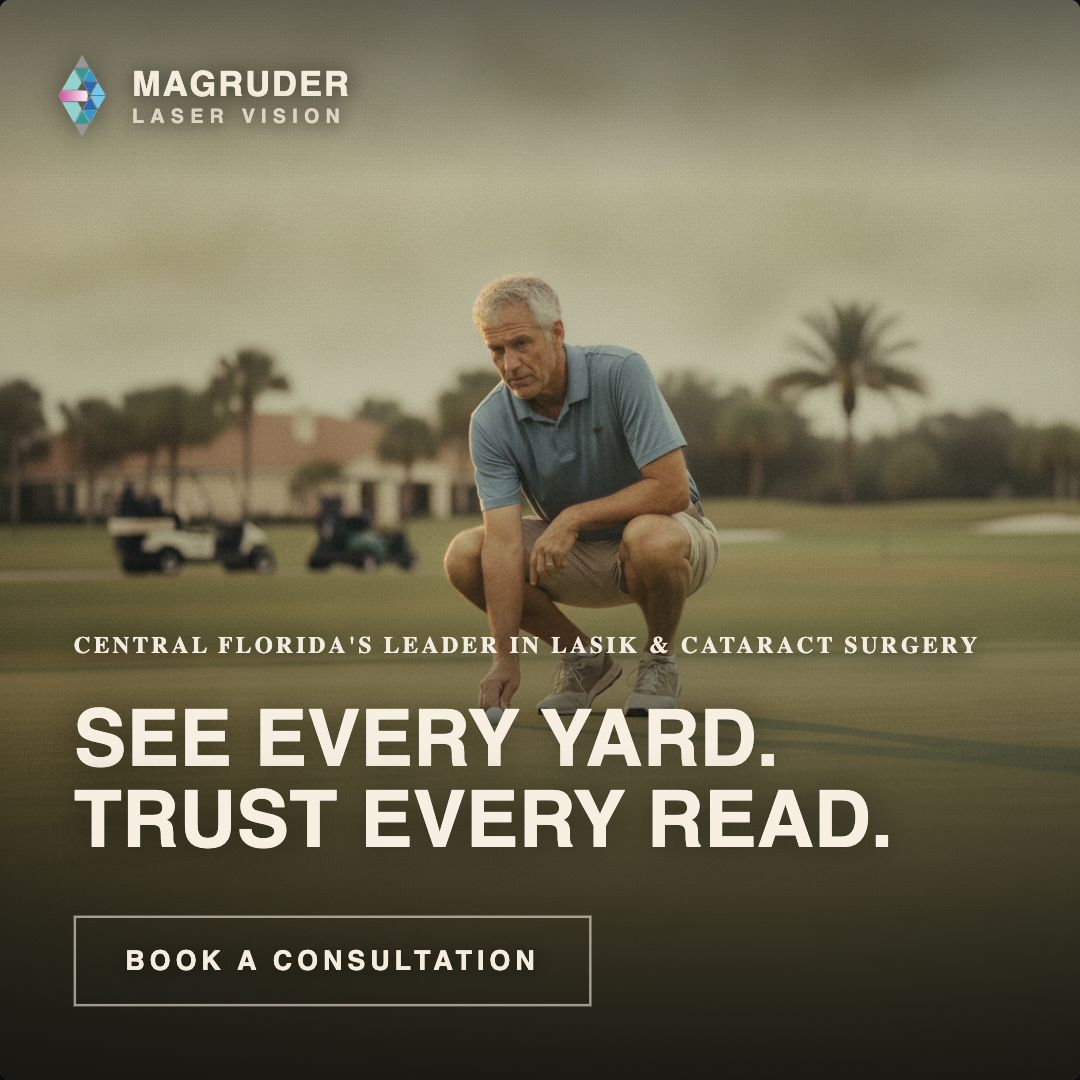
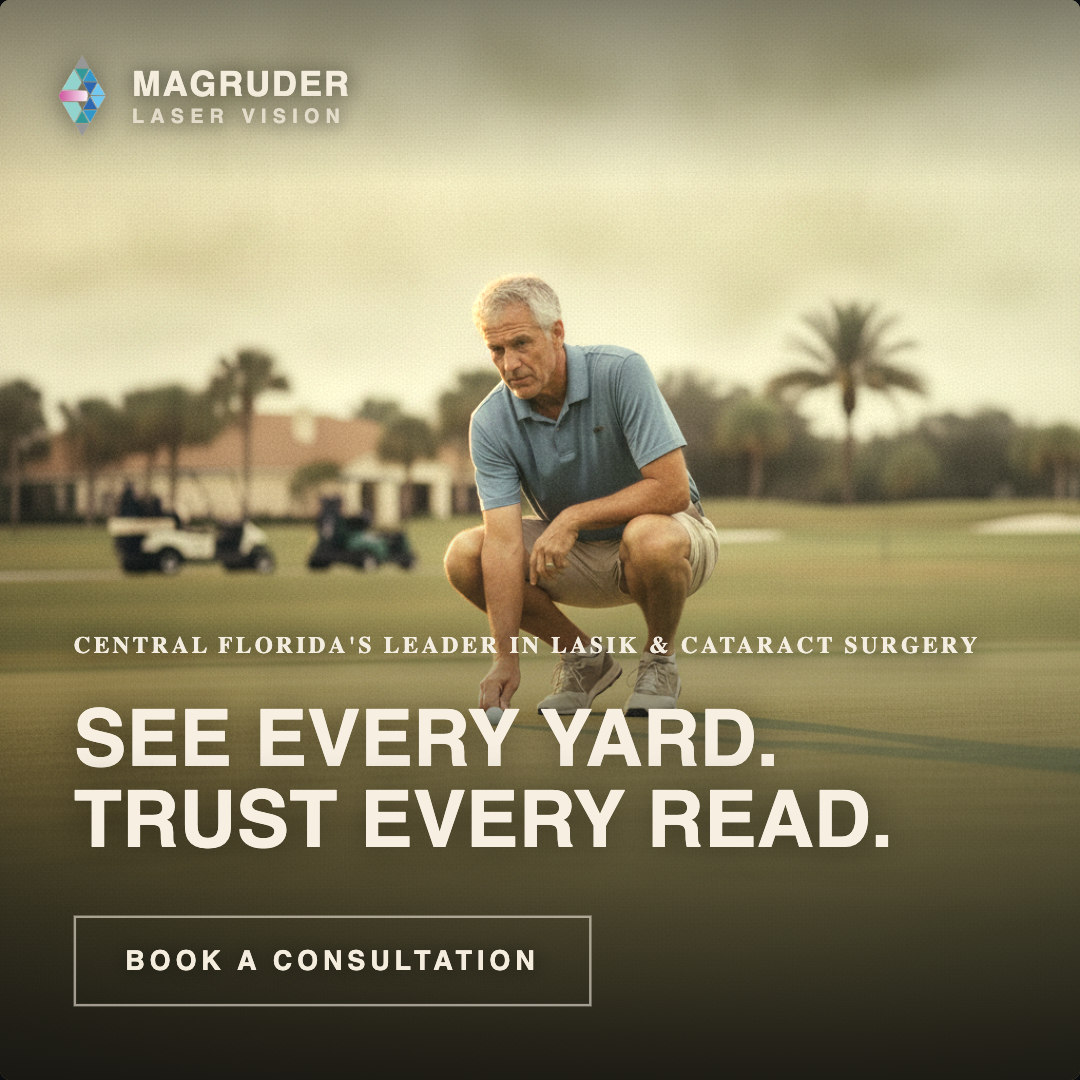
Brighten golf, fishing, and pickleball ads (brightness 1.3, contrast 1.05)

diff --git a/index.html b/index.html
@@ -1,5 +1,5 @@
 <!DOCTYPE html><html lang="en"><head><meta charset="utf-8"><meta name="viewport" content="width=device-width, initial-scale=1"><title>Magruder Laser Vision — Creative Territories · Campbell Learn</title><link rel="preconnect" href="https://fonts.googleapis.com"><link rel="preconnect" href="https://fonts.gstatic.com" crossorigin><link href="https://fonts.googleapis.com/css2?family=Oswald:wght@400;500;600;700&family=Roboto:ital,wght@0,400;0,500;0,700;1,400&family=Cardo:ital@0;1&family=Roboto+Mono:wght@400;500&family=Archivo:wght@500;600;700;800&family=Newsreader:ital,opsz,wght@0,6..72,300;0,6..72,400;0,6..72,500;1,6..72,300;1,6..72,400&family=Inter:wght@400;500;600&display=swap" rel="stylesheet"><style>*{box-sizing:border-box}body{margin:0;background:#fff;-webkit-font-smoothing:antialiased}a[download]:hover{background:#013042 !important}</style></head><body><section style="background:#FFFFFF;min-height:90vh;display:flex;align-items:center;border-bottom:1px solid #DED8CC;"><div style="max-width:1240px;margin:0 auto;padding:80px 24px;width:100%;"><div style="display:flex;align-items:center;gap:11px;margin-bottom:56px;"><span style="width:13px;height:13px;border-radius:50%;background:#EA3C55;"></span><span style="font-family:Oswald,sans-serif;font-weight:600;font-size:16px;letter-spacing:.18em;text-transform:uppercase;color:#024059;">Campbell Learn</span></div><div style="display:flex;align-items:center;gap:10px;margin-bottom:18px;"><span style="width:9px;height:9px;border-radius:50%;background:#EA3C55;display:inline-block;"></span><span style="font-family:Oswald,sans-serif;font-weight:600;font-size:13px;letter-spacing:.22em;text-transform:uppercase;color:#024059;">Magruder Laser Vision · Creative Territories</span></div><h1 style="font-family:Oswald,sans-serif;font-weight:600;font-size:68px;line-height:.98;color:#024059;margin:0 0 8px;max-width:900px;">One Promise.<br><span style="font-family:Cardo,Georgia,serif;font-style:italic;font-weight:400;color:#00AEEF;">Three ways to prove it.</span></h1><p style="font-family:Roboto,system-ui,sans-serif;font-size:17px;line-height:1.62;color:#03030D;max-width:680px;margin:28px 0 32px;">Every territory ladders up to the same positioning. Each one dramatizes that promise for a different mindset — the dreamer, the skeptic, and the researcher — so the campaign can meet a prospective patient wherever they are and move them forward.</p><div style="display:flex;gap:16px;max-width:680px;margin-bottom:40px;"><div style="width:3px;background:#EA3C55;flex:none;"></div><p style="font-family:Cardo,Georgia,serif;font-style:italic;font-size:23px;line-height:1.4;color:#024059;margin:0;">The most advanced technology in Central Florida. The most experienced hands to use it.</p></div><div style="background:#F7F5F2;border:1px solid #DED8CC;padding:14px 18px;display:inline-block;font-family:Roboto,system-ui,sans-serif;font-size:13px;color:#03030D;margin-bottom:40px;">Each ad is a finished 1080×1080 creative — hover any card and click <strong>Download PNG</strong> to grab it.</div><div style="display:flex;gap:48px;flex-wrap:wrap;font-family:'Roboto Mono',monospace;font-size:12px;color:#6B7684;"><div><div style="color:#024059;text-transform:uppercase;letter-spacing:.16em;font-size:10px;margin-bottom:6px;">Prepared by</div>Campbell Learn</div><div><div style="color:#024059;text-transform:uppercase;letter-spacing:.16em;font-size:10px;margin-bottom:6px;">For review by</div>Barbara Drahl</div><div><div style="color:#024059;text-transform:uppercase;letter-spacing:.16em;font-size:10px;margin-bottom:6px;">Date</div>June 2026</div></div></div></section><section style="max-width:1240px;margin:0 auto;padding:0 24px;border-top:1px solid #DED8CC;"><div style="padding:64px 0 30px;display:flex;gap:40px;align-items:flex-end;flex-wrap:wrap;"><div style="flex:1;min-width:320px;"><div style="display:flex;align-items:center;gap:10px;margin-bottom:18px;"><span style="width:9px;height:9px;border-radius:50%;background:#EA3C55;display:inline-block;"></span><span style="font-family:Oswald,sans-serif;font-weight:600;font-size:13px;letter-spacing:.22em;text-transform:uppercase;color:#024059;">Territory 01</span></div><h2 style="font-family:Oswald,sans-serif;font-weight:600;font-size:40px;line-height:1.05;color:#024059;margin:0 0 12px;">The Orlando Life</h2><div style="font-family:Cardo,Georgia,serif;font-style:italic;font-size:24px;line-height:1.35;color:#00AEEF;margin-bottom:18px;">Sell the life that vision gives back.</div><p style="font-family:Roboto,system-ui,sans-serif;font-size:15px;line-height:1.62;color:#03030D;max-width:640px;margin:0 0 18px;">Warm, human, aspirational. Each ad names one moment clear vision hands back — the putt read, the open water, the grandkids, the game, the quiet morning. No clinical language; the surgery is the means, the moment is the message.</p><div style="display:flex;gap:14px;max-width:560px;"><div style="width:3px;background:#EA3C55;flex:none;"></div><div><div style="font-family:'Roboto Mono',monospace;font-size:11px;letter-spacing:.16em;text-transform:uppercase;color:#6B7684;margin-bottom:4px;">The why</div><div style="font-family:Cardo,Georgia,serif;font-style:italic;font-size:18px;line-height:1.4;color:#024059;">Speaks to the heart — the reason behind the procedure, before any proof.</div></div></div></div><div style="font-family:'Roboto Mono',monospace;font-size:11px;letter-spacing:.14em;text-transform:uppercase;color:#6B7684;padding-bottom:6px;">Five lifestyle ads · warm · 1:1 feed</div></div><div style="padding-bottom:76px;"><div style="display:flex;flex-wrap:wrap;gap:30px 18px;align-content:flex-start;"><div style="flex:none;width:360px;"><div style="position:relative;width:360px;height:360px;border-radius:4px;overflow:hidden;box-shadow:0 12px 30px rgba(0,0,0,0.45);"><div style="position:absolute;top:0;left:0;width:440px;height:440px;transform:scale(0.8181818181818182);transform-origin:top left;"><div style="position: relative; width: 440px; height: 440px; border-radius: 4px; overflow: hidden; background: #14130f;">
-              <img src="assets/golf-putt.png" alt="" style="position: absolute; inset: 0; width: 100%; height: 100%; object-fit: cover; object-position: 50% 38%;">
+              <img src="assets/golf-putt.png" alt="" style="position: absolute; inset: 0; width: 100%; height: 100%; object-fit: cover; object-position: 50% 38%; filter: brightness(1.3) contrast(1.05);">
               <div style="position: absolute; inset: 0; background: linear-gradient(to top, rgba(20,19,16,0.92) 0%, rgba(20,19,16,0.5) 26%, rgba(20,19,16,0.06) 48%, rgba(20,19,16,0) 62%), linear-gradient(to bottom, rgba(20,19,16,0.5) 0%, rgba(20,19,16,0) 17%);"></div>
               <div style="position: absolute; top: 22px; left: 24px; display: flex; align-items: center; gap: 10px;">
                 <img src="assets/magruder-diamond.png" alt="" style="height: 34px; width: auto; display: block; filter: drop-shadow(0 1px 6px rgba(8,9,7,0.6));">
@@ -83,7 +83,7 @@
             </div>
           </div>
         </div><a href="assets/downloads/Magruder-A-Quiet-Morning.png" download style="display:inline-block;margin-top:12px;background:#024059;color:#fff;font-family:Oswald,sans-serif;font-weight:600;font-size:11px;letter-spacing:.16em;text-transform:uppercase;padding:11px 18px;border-radius:50px;text-decoration:none;">Download PNG &nbsp;·&nbsp; 1080</a></div><div style="flex:none;width:360px;"><div style="position:relative;width:360px;height:360px;border-radius:4px;overflow:hidden;box-shadow:0 12px 30px rgba(0,0,0,0.45);"><div style="position:absolute;top:0;left:0;width:440px;height:440px;transform:scale(0.8181818181818182);transform-origin:top left;"><div style="position: relative; width: 440px; height: 440px; border-radius: 4px; overflow: hidden; background: #14130f;">
-              <img src="assets/beach-fishing.png" alt="" style="position: absolute; inset: 0; width: 100%; height: 100%; object-fit: cover; object-position: 50% 40%;">
+              <img src="assets/beach-fishing.png" alt="" style="position: absolute; inset: 0; width: 100%; height: 100%; object-fit: cover; object-position: 50% 40%; filter: brightness(1.3) contrast(1.05);">
               <div style="position: absolute; inset: 0; background: linear-gradient(to top, rgba(20,19,16,0.92) 0%, rgba(20,19,16,0.5) 26%, rgba(20,19,16,0.06) 48%, rgba(20,19,16,0) 62%), linear-gradient(to bottom, rgba(20,19,16,0.5) 0%, rgba(20,19,16,0) 17%);"></div>
               <div style="position: absolute; top: 22px; left: 24px; display: flex; align-items: center; gap: 10px;">
                 <img src="assets/magruder-diamond.png" alt="" style="height: 34px; width: auto; display: block; filter: drop-shadow(0 1px 6px rgba(8,9,7,0.6));">
@@ -111,7 +111,7 @@
             </div>
           </div>
         </div><a href="assets/downloads/Magruder-Dawn-on-the-Coast.png" download style="display:inline-block;margin-top:12px;background:#024059;color:#fff;font-family:Oswald,sans-serif;font-weight:600;font-size:11px;letter-spacing:.16em;text-transform:uppercase;padding:11px 18px;border-radius:50px;text-decoration:none;">Download PNG &nbsp;·&nbsp; 1080</a></div><div style="flex:none;width:360px;"><div style="position:relative;width:360px;height:360px;border-radius:4px;overflow:hidden;box-shadow:0 12px 30px rgba(0,0,0,0.45);"><div style="position:absolute;top:0;left:0;width:440px;height:440px;transform:scale(0.8181818181818182);transform-origin:top left;"><div style="position: relative; width: 440px; height: 440px; border-radius: 4px; overflow: hidden; background: #14130f;">
-              <img src="assets/pickleball.png" alt="" style="position: absolute; inset: 0; width: 100%; height: 100%; object-fit: cover; object-position: 50% 40%;">
+              <img src="assets/pickleball.png" alt="" style="position: absolute; inset: 0; width: 100%; height: 100%; object-fit: cover; object-position: 50% 40%; filter: brightness(1.3) contrast(1.05);">
               <div style="position: absolute; inset: 0; background: linear-gradient(to top, rgba(20,19,16,0.92) 0%, rgba(20,19,16,0.5) 26%, rgba(20,19,16,0.06) 48%, rgba(20,19,16,0) 62%), linear-gradient(to bottom, rgba(20,19,16,0.5) 0%, rgba(20,19,16,0) 17%);"></div>
               <div style="position: absolute; top: 22px; left: 24px; display: flex; align-items: center; gap: 10px;">
                 <img src="assets/magruder-diamond.png" alt="" style="height: 34px; width: auto; display: block; filter: drop-shadow(0 1px 6px rgba(8,9,7,0.6));">